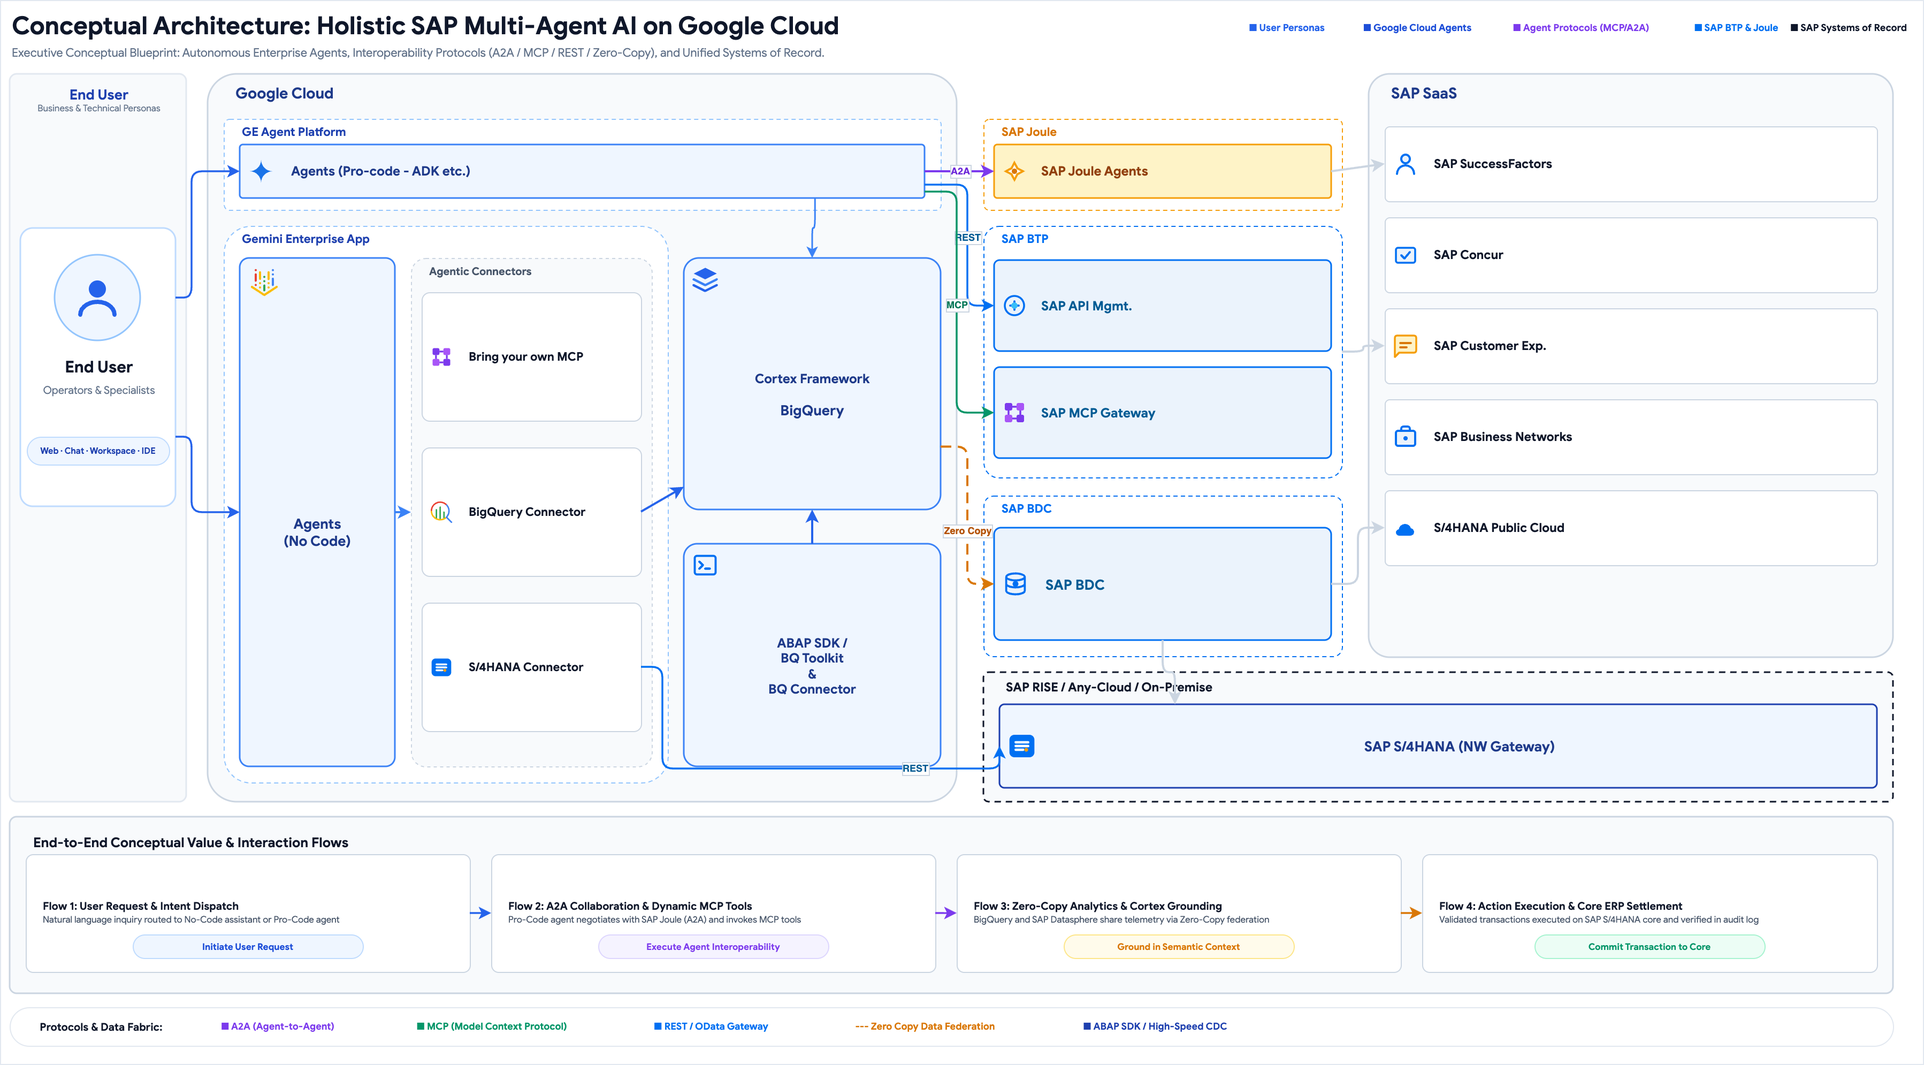
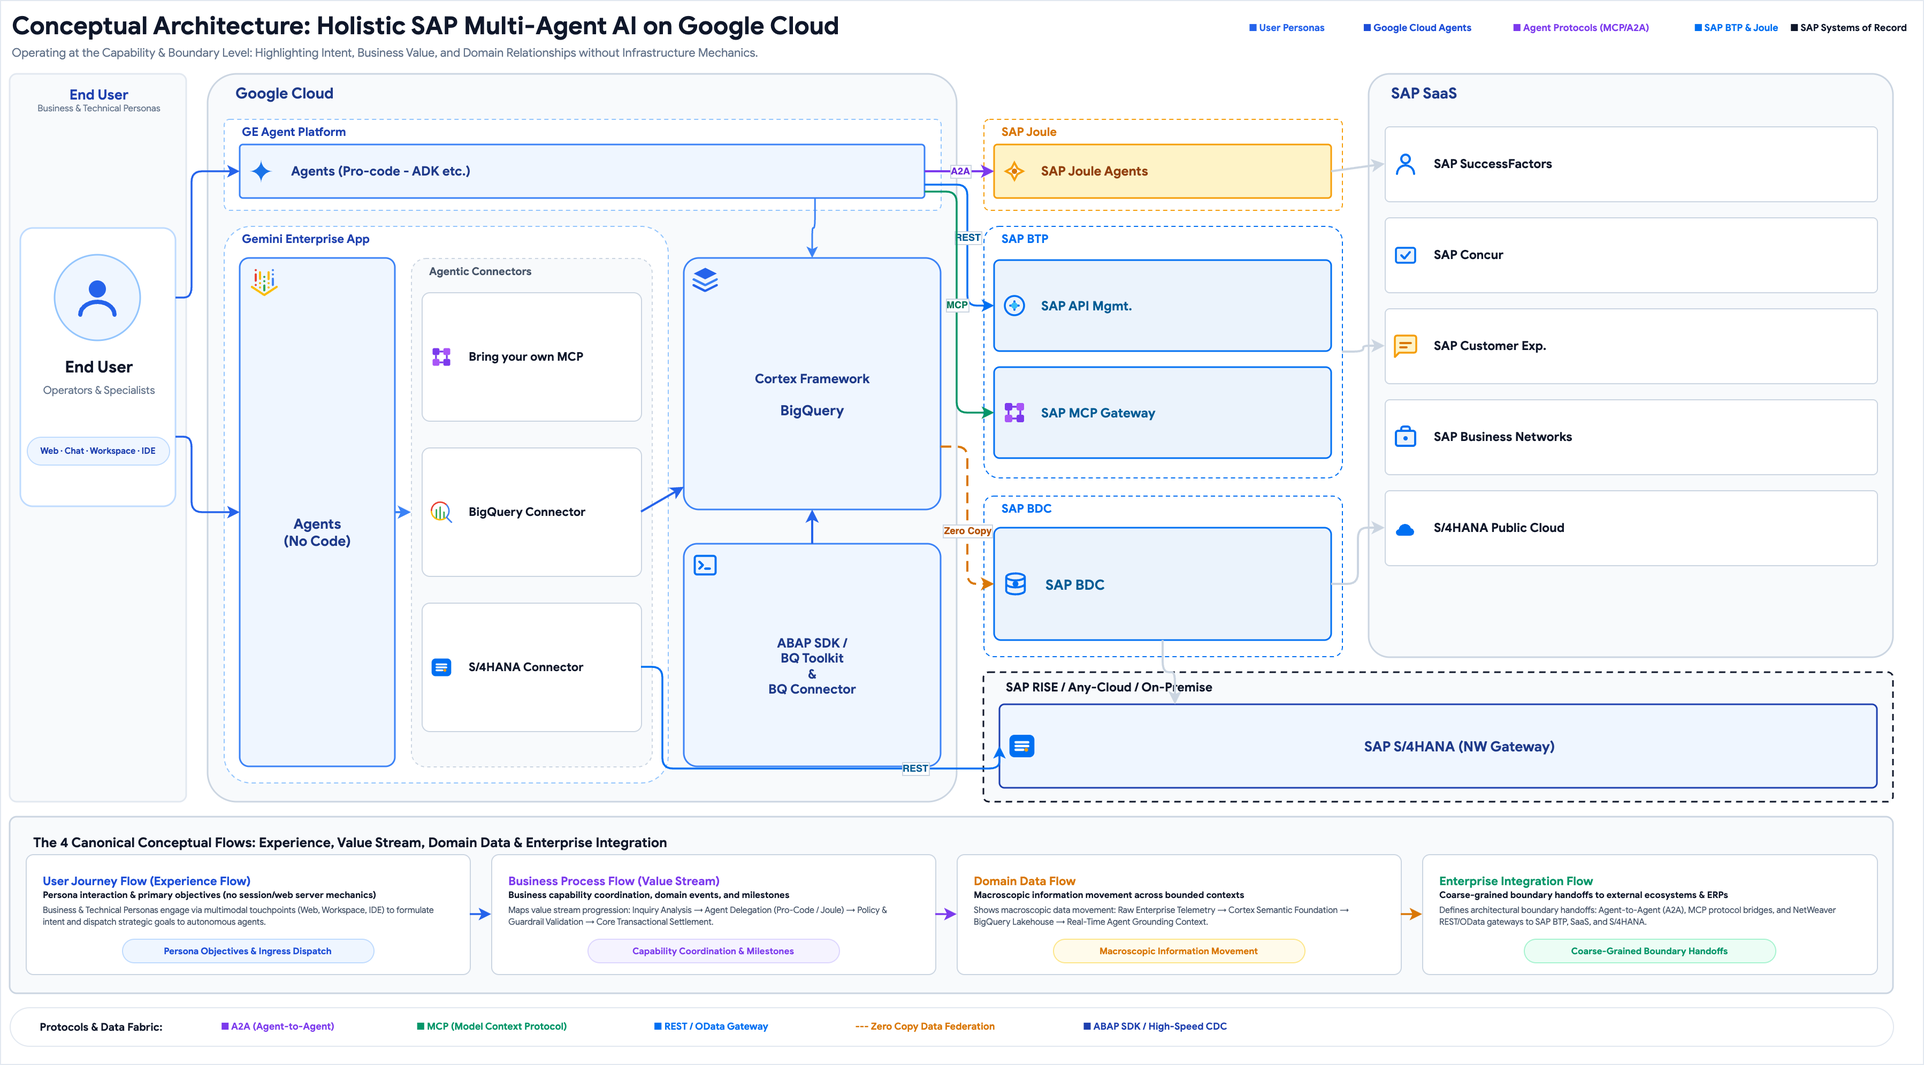
feat(conceptual): codify Rule 22 Conceptual Architecture Abstraction & The 4-Flow Taxonomy Law across diagrams and metadata

diff --git a/scripts/generate_pure_conceptual_sap_google_agents.ts b/scripts/generate_pure_conceptual_sap_google_agents.ts
@@ -37,7 +37,7 @@ const xml = `<?xml version="1.0" encoding="UTF-8"?>
         <mxCell id="hdr_title" value="Conceptual Architecture: Holistic SAP Multi-Agent AI on Google Cloud" style="text;html=1;strokeColor=none;fillColor=none;align=left;verticalAlign=middle;whiteSpace=wrap;rounded=0;fontFamily=Google Sans, -apple-system, BlinkMacSystemFont, Segoe UI, Roboto, sans-serif;fontSize=23;fontStyle=1;fontColor=#0F172A;" vertex="1" parent="1">
           <mxGeometry x="30" y="16" width="1200" height="30" as="geometry" />
         </mxCell>
-        <mxCell id="hdr_sub" value="Executive Conceptual Blueprint: Autonomous Enterprise Agents, Interoperability Protocols (A2A / MCP / REST / Zero-Copy), and Unified Systems of Record." style="text;html=1;strokeColor=none;fillColor=none;align=left;verticalAlign=middle;whiteSpace=wrap;rounded=0;fontFamily=Google Sans, -apple-system, BlinkMacSystemFont, Segoe UI, Roboto, sans-serif;fontSize=11;fontStyle=0;fontColor=#64748B;" vertex="1" parent="1">
+        <mxCell id="hdr_sub" value="Operating at the Capability &amp; Boundary Level: Highlighting Intent, Business Value, and Domain Relationships without Infrastructure Mechanics." style="text;html=1;strokeColor=none;fillColor=none;align=left;verticalAlign=middle;whiteSpace=wrap;rounded=0;fontFamily=Google Sans, -apple-system, BlinkMacSystemFont, Segoe UI, Roboto, sans-serif;fontSize=11;fontStyle=0;fontColor=#64748B;" vertex="1" parent="1">
           <mxGeometry x="30" y="46" width="1350" height="20" as="geometry" />
         </mxCell>
 
@@ -373,42 +373,42 @@ const xml = `<?xml version="1.0" encoding="UTF-8"?>
 
 
         <!-- ========================================================================= -->
-        <!-- DOMAIN 6: END-TO-END CONCEPTUAL SCENARIO FLOWS (y=770, h=165)             -->
+        <!-- DOMAIN 6: THE 4 CANONICAL CONCEPTUAL FLOWS (y=770, h=165)                 -->
         <!-- ========================================================================= -->
-        <mxCell id="domain_scenario" value="End-to-End Conceptual Value &amp; Interaction Flows" style="rounded=1;arcSize=4;fillColor=#F8FAFC;strokeColor=#CBD5E1;strokeWidth=1.5;align=left;verticalAlign=top;spacingLeft=20;spacingTop=10;fontFamily=Google Sans, sans-serif;fontSize=12.5;fontStyle=1;fontColor=#0F172A;" vertex="1" parent="1">
+        <mxCell id="domain_scenario" value="The 4 Canonical Conceptual Flows: Experience, Value Stream, Domain Data &amp; Enterprise Integration" style="rounded=1;arcSize=4;fillColor=#F8FAFC;strokeColor=#CBD5E1;strokeWidth=1.5;align=left;verticalAlign=top;spacingLeft=20;spacingTop=10;fontFamily=Google Sans, sans-serif;fontSize=12.5;fontStyle=1;fontColor=#0F172A;" vertex="1" parent="1">
           <mxGeometry x="30" y="770" width="1760" height="165" as="geometry" />
         </mxCell>
 
-        <!-- Step 1 Card -->
-        <mxCell id="sc_card_1" value="Flow 1: User Request &amp; Intent Dispatch&lt;br&gt;&lt;span style=&quot;font-size: 8.5px; font-weight: normal; color: #475569;&quot;&gt;Natural language inquiry routed to No-Code assistant or Pro-Code agent&lt;/span&gt;" style="rounded=1;arcSize=6;fillColor=#FFFFFF;strokeColor=#CBD5E1;strokeWidth=1;html=1;whiteSpace=wrap;fontFamily=Google Sans, sans-serif;fontSize=10;fontStyle=1;fontColor=#0F172A;align=left;verticalAlign=middle;spacingLeft=14;" vertex="1" parent="1">
-          <mxGeometry x="45" y="805" width="415" height="110" as="geometry" />
+        <!-- Step 1 Card: User Journey Flow (Experience Flow) -->
+        <mxCell id="sc_card_1" value="&lt;div style=&quot;font-size: 11px; font-weight: bold; color: #1D4ED8; margin-bottom: 2px;&quot;&gt;User Journey Flow (Experience Flow)&lt;/div&gt;&lt;div style=&quot;font-size: 8.5px; font-weight: 600; color: #0F172A; margin-bottom: 3px;&quot;&gt;Persona interaction &amp; primary objectives (no session/web server mechanics)&lt;/div&gt;&lt;div style=&quot;font-size: 8px; color: #475569; line-height: 1.3;&quot;&gt;Business &amp; Technical Personas engage via multimodal touchpoints (Web, Workspace, IDE) to formulate intent and dispatch strategic goals to autonomous agents.&lt;/div&gt;" style="rounded=1;arcSize=6;fillColor=#FFFFFF;strokeColor=#CBD5E1;strokeWidth=1;html=1;whiteSpace=wrap;fontFamily=Google Sans, sans-serif;align=left;verticalAlign=top;spacingLeft=14;spacingRight=14;spacingTop=12;" vertex="1" parent="1">
+          <mxGeometry x="45" y="805" width="415" height="112" as="geometry" />
         </mxCell>
-        <mxCell id="sc_btn_1" value="Initiate User Request" style="rounded=1;arcSize=50;fillColor=#EFF6FF;strokeColor=#BFDBFE;strokeWidth=1;fontFamily=Google Sans, sans-serif;fontSize=8.5;fontStyle=1;fontColor=#1D4ED8;align=center;verticalAlign=middle;" vertex="1" parent="1">
-          <mxGeometry x="145" y="880" width="215" height="22" as="geometry" />
-        </mxCell>
-
-        <!-- Step 2 Card -->
-        <mxCell id="sc_card_2" value="Flow 2: A2A Collaboration &amp; Dynamic MCP Tools&lt;br&gt;&lt;span style=&quot;font-size: 8.5px; font-weight: normal; color: #475569;&quot;&gt;Pro-Code agent negotiates with SAP Joule (A2A) and invokes MCP tools&lt;/span&gt;" style="rounded=1;arcSize=6;fillColor=#FFFFFF;strokeColor=#CBD5E1;strokeWidth=1;html=1;whiteSpace=wrap;fontFamily=Google Sans, sans-serif;fontSize=10;fontStyle=1;fontColor=#0F172A;align=left;verticalAlign=middle;spacingLeft=14;" vertex="1" parent="1">
-          <mxGeometry x="480" y="805" width="415" height="110" as="geometry" />
-        </mxCell>
-        <mxCell id="sc_btn_2" value="Execute Agent Interoperability" style="rounded=1;arcSize=50;fillColor=#F5F3FF;strokeColor=#DDD6FE;strokeWidth=1;fontFamily=Google Sans, sans-serif;fontSize=8.5;fontStyle=1;fontColor=#7C3AED;align=center;verticalAlign=middle;" vertex="1" parent="1">
-          <mxGeometry x="580" y="880" width="215" height="22" as="geometry" />
+        <mxCell id="sc_btn_1" value="Persona Objectives &amp; Ingress Dispatch" style="rounded=1;arcSize=50;fillColor=#EFF6FF;strokeColor=#BFDBFE;strokeWidth=1;fontFamily=Google Sans, sans-serif;fontSize=8.5;fontStyle=1;fontColor=#1D4ED8;align=center;verticalAlign=middle;" vertex="1" parent="1">
+          <mxGeometry x="135" y="884" width="235" height="22" as="geometry" />
         </mxCell>
 
-        <!-- Step 3 Card -->
-        <mxCell id="sc_card_3" value="Flow 3: Zero-Copy Analytics &amp; Cortex Grounding&lt;br&gt;&lt;span style=&quot;font-size: 8.5px; font-weight: normal; color: #475569;&quot;&gt;BigQuery and SAP Datasphere share telemetry via Zero-Copy federation&lt;/span&gt;" style="rounded=1;arcSize=6;fillColor=#FFFFFF;strokeColor=#CBD5E1;strokeWidth=1;html=1;whiteSpace=wrap;fontFamily=Google Sans, sans-serif;fontSize=10;fontStyle=1;fontColor=#0F172A;align=left;verticalAlign=middle;spacingLeft=14;" vertex="1" parent="1">
-          <mxGeometry x="915" y="805" width="415" height="110" as="geometry" />
+        <!-- Step 2 Card: Business Process Flow (Value Stream) -->
+        <mxCell id="sc_card_2" value="&lt;div style=&quot;font-size: 11px; font-weight: bold; color: #7C3AED; margin-bottom: 2px;&quot;&gt;Business Process Flow (Value Stream)&lt;/div&gt;&lt;div style=&quot;font-size: 8.5px; font-weight: 600; color: #0F172A; margin-bottom: 3px;&quot;&gt;Business capability coordination, domain events, and milestones&lt;/div&gt;&lt;div style=&quot;font-size: 8px; color: #475569; line-height: 1.3;&quot;&gt;Maps value stream progression: Inquiry Analysis → Agent Delegation (Pro-Code / Joule) → Policy &amp; Guardrail Validation → Core Transactional Settlement.&lt;/div&gt;" style="rounded=1;arcSize=6;fillColor=#FFFFFF;strokeColor=#CBD5E1;strokeWidth=1;html=1;whiteSpace=wrap;fontFamily=Google Sans, sans-serif;align=left;verticalAlign=top;spacingLeft=14;spacingRight=14;spacingTop=12;" vertex="1" parent="1">
+          <mxGeometry x="480" y="805" width="415" height="112" as="geometry" />
         </mxCell>
-        <mxCell id="sc_btn_3" value="Ground in Semantic Context" style="rounded=1;arcSize=50;fillColor=#FFFBEB;strokeColor=#FDE68A;strokeWidth=1;fontFamily=Google Sans, sans-serif;fontSize=8.5;fontStyle=1;fontColor=#D97706;align=center;verticalAlign=middle;" vertex="1" parent="1">
-          <mxGeometry x="1015" y="880" width="215" height="22" as="geometry" />
+        <mxCell id="sc_btn_2" value="Capability Coordination &amp; Milestones" style="rounded=1;arcSize=50;fillColor=#F5F3FF;strokeColor=#DDD6FE;strokeWidth=1;fontFamily=Google Sans, sans-serif;fontSize=8.5;fontStyle=1;fontColor=#7C3AED;align=center;verticalAlign=middle;" vertex="1" parent="1">
+          <mxGeometry x="570" y="884" width="235" height="22" as="geometry" />
         </mxCell>
 
-        <!-- Step 4 Card -->
-        <mxCell id="sc_card_4" value="Flow 4: Action Execution &amp; Core ERP Settlement&lt;br&gt;&lt;span style=&quot;font-size: 8.5px; font-weight: normal; color: #475569;&quot;&gt;Validated transactions executed on SAP S/4HANA core and verified in audit log&lt;/span&gt;" style="rounded=1;arcSize=6;fillColor=#FFFFFF;strokeColor=#CBD5E1;strokeWidth=1;html=1;whiteSpace=wrap;fontFamily=Google Sans, sans-serif;fontSize=10;fontStyle=1;fontColor=#0F172A;align=left;verticalAlign=middle;spacingLeft=14;" vertex="1" parent="1">
-          <mxGeometry x="1350" y="805" width="425" height="110" as="geometry" />
+        <!-- Step 3 Card: Domain Data Flow -->
+        <mxCell id="sc_card_3" value="&lt;div style=&quot;font-size: 11px; font-weight: bold; color: #D97706; margin-bottom: 2px;&quot;&gt;Domain Data Flow&lt;/div&gt;&lt;div style=&quot;font-size: 8.5px; font-weight: 600; color: #0F172A; margin-bottom: 3px;&quot;&gt;Macroscopic information movement across bounded contexts&lt;/div&gt;&lt;div style=&quot;font-size: 8px; color: #475569; line-height: 1.3;&quot;&gt;Shows macroscopic data movement: Raw Enterprise Telemetry → Cortex Semantic Foundation → BigQuery Lakehouse → Real-Time Agent Grounding Context.&lt;/div&gt;" style="rounded=1;arcSize=6;fillColor=#FFFFFF;strokeColor=#CBD5E1;strokeWidth=1;html=1;whiteSpace=wrap;fontFamily=Google Sans, sans-serif;align=left;verticalAlign=top;spacingLeft=14;spacingRight=14;spacingTop=12;" vertex="1" parent="1">
+          <mxGeometry x="915" y="805" width="415" height="112" as="geometry" />
         </mxCell>
-        <mxCell id="sc_btn_4" value="Commit Transaction to Core" style="rounded=1;arcSize=50;fillColor=#ECFDF5;strokeColor=#A7F3D0;strokeWidth=1;fontFamily=Google Sans, sans-serif;fontSize=8.5;fontStyle=1;fontColor=#059669;align=center;verticalAlign=middle;" vertex="1" parent="1">
-          <mxGeometry x="1455" y="880" width="215" height="22" as="geometry" />
+        <mxCell id="sc_btn_3" value="Macroscopic Information Movement" style="rounded=1;arcSize=50;fillColor=#FFFBEB;strokeColor=#FDE68A;strokeWidth=1;fontFamily=Google Sans, sans-serif;fontSize=8.5;fontStyle=1;fontColor=#D97706;align=center;verticalAlign=middle;" vertex="1" parent="1">
+          <mxGeometry x="1005" y="884" width="235" height="22" as="geometry" />
+        </mxCell>
+
+        <!-- Step 4 Card: Enterprise Integration Flow -->
+        <mxCell id="sc_card_4" value="&lt;div style=&quot;font-size: 11px; font-weight: bold; color: #059669; margin-bottom: 2px;&quot;&gt;Enterprise Integration Flow&lt;/div&gt;&lt;div style=&quot;font-size: 8.5px; font-weight: 600; color: #0F172A; margin-bottom: 3px;&quot;&gt;Coarse-grained boundary handoffs to external ecosystems &amp; ERPs&lt;/div&gt;&lt;div style=&quot;font-size: 8px; color: #475569; line-height: 1.3;&quot;&gt;Defines architectural boundary handoffs: Agent-to-Agent (A2A), MCP protocol bridges, and NetWeaver REST/OData gateways to SAP BTP, SaaS, and S/4HANA.&lt;/div&gt;" style="rounded=1;arcSize=6;fillColor=#FFFFFF;strokeColor=#CBD5E1;strokeWidth=1;html=1;whiteSpace=wrap;fontFamily=Google Sans, sans-serif;align=left;verticalAlign=top;spacingLeft=14;spacingRight=14;spacingTop=12;" vertex="1" parent="1">
+          <mxGeometry x="1350" y="805" width="425" height="112" as="geometry" />
+        </mxCell>
+        <mxCell id="sc_btn_4" value="Coarse-Grained Boundary Handoffs" style="rounded=1;arcSize=50;fillColor=#ECFDF5;strokeColor=#A7F3D0;strokeWidth=1;fontFamily=Google Sans, sans-serif;fontSize=8.5;fontStyle=1;fontColor=#059669;align=center;verticalAlign=middle;" vertex="1" parent="1">
+          <mxGeometry x="1445" y="884" width="235" height="22" as="geometry" />
         </mxCell>
 
         <!-- Flow Connectors -->

diff --git a/src/lib/architectureTypes.ts b/src/lib/architectureTypes.ts
@@ -95,8 +95,8 @@ export const BUSINESS_ARCHITECTURE_TYPES: ArchitectureTypeOption[] = [
     id: "conceptual_diagram",
     name: "Conceptual Diagram",
     category: "Executive & Business Strategy",
-    whenToUse: "High-level 3-stage business architecture showing ingestion, processing hub, and strategic outcomes",
-    prompt: "Enterprise Conceptual Platform:\n- Ingestion: Multi-channel data ingestion across core operational silos.\n- Processing Engine: Core Enterprise Synthesis Engine (Powered by Gemini Enterprise) executing data synthesis, document analysis, and strategic AI workflows.\n- Strategic Outcomes: System Efficiency, Fast Time-to-Value, Strategic Planning & Analysis.\n- Priority Alert: Real-Time Operational Strategy Monitoring."
+    whenToUse: "Capability- and boundary-level architecture highlighting intent, business value, and domain relationships across 4 canonical flows (User Journey, Value Stream, Domain Data, and Enterprise Integration)",
+    prompt: "Act as a Principal Enterprise Architect. Design an Executive Conceptual Architecture Diagram. Conceptual diagrams operate strictly at the capability and boundary level, stripping away infrastructure mechanics to highlight intent, business value, and domain relationships.\nStructure the architecture around the 4 Canonical Flows:\n1. User Journey Flow (Experience Flow): High-level persona interaction, primary objectives, and ingress entry points.\n2. Business Process Flow (Value Stream): Business capability coordination, domain events, and milestones (e.g. Order Submission -> Payment Authorization -> Inventory Allocation).\n3. Domain Data Flow: Macroscopic information movement across bounded contexts (e.g. Raw Data -> Feature Store -> Analytical Model -> Reporting Dashboard).\n4. Enterprise Integration Flow: Coarse-grained boundary handoffs to external third parties, legacy ERPs, or partner ecosystems."
   },
   {
     id: "unified_system_view",

diff --git a/src/lib/architectureMetadata.ts b/src/lib/architectureMetadata.ts
@@ -73,11 +73,11 @@ export const ARCHITECTURE_METADATA_MAP: Record<string, ArchitectureMeta> = {
     id: "conceptual_diagram",
     title: "Conceptual Diagram",
     category: "Executive & Business Strategy",
-    useCase: "ENTERPRISE PLATFORM",
-    businessUseCase: "Automate cross-silo data synthesis, document analysis, and strategic AI workflows to accelerate operational decision-making.",
-    primaryActors: "Executive Leadership, Chief Architects, Strategic Analysts",
-    targetOutcomes: "Accelerated Time-to-Value, 80% Reduction in Manual Research, Real-Time Strategic Insights",
-    desc: "High-level 3-stage business architecture showing ingestion, processing hub, and strategic outcomes."
+    useCase: "ENTERPRISE PLATFORM & VALUE STREAM",
+    businessUseCase: "Operate at the capability and boundary level to highlight intent, business value, and domain relationships across 4 canonical flows: User Journey, Business Process Value Stream, Domain Data Flow, and Enterprise Integration.",
+    primaryActors: "Executive Leadership, Chief Enterprise Architects, Business Strategists",
+    targetOutcomes: "Capability Alignment, Macroscopic Information Visibility, Strategic Ecosystem Integration",
+    desc: "Capability- and boundary-level architecture highlighting intent, business value, and domain relationships across the 4 canonical flows (User Journey, Value Stream, Domain Data, and Enterprise Integration)."
   },
   unified_system_view: {
     id: "unified_system_view",

diff --git a/AGENTS.md b/AGENTS.md
@@ -301,3 +301,12 @@ This version has breaking changes — APIs, conventions, and file structure may 
 21. **Geometric Waypoint Highway Planning & Zero Text Intersection**:
     - Cross-tier connector lines spanning across columns MUST route through designated open inter-row channels (e.g. gaps between cards) with explicit intermediate waypoints (`<mxPoint x="..." y="...">`).
     - Line paths must maintain a minimum **$12\text{px}$ safety margin** from all card boundaries, container headers, subheaders, and character descenders. Never route lines through the text bounding box of a card or container title.
+
+22. **Conceptual Architecture Abstraction & The 4-Flow Taxonomy Law**:
+    - **Capability & Boundary Level Abstraction**: Conceptual diagrams MUST operate strictly at the capability and boundary level. They strip away infrastructure mechanics (no VPCs, CIDRs, session cookies, web servers, low-level SDK package paths, or code blocks) to highlight intent, business value, and domain relationships.
+    - **Four Canonical Conceptual Flows**: Conceptual value streams and interaction models MUST be structured around the four canonical flows:
+      1. **User Journey Flow (Experience Flow)**: Focuses on high-level persona interaction, primary objectives, and ingress entry points without detailing session cookies or web servers.
+      2. **Business Process Flow (Value Stream)**: Maps business capability coordination, domain events, and milestones (e.g., Order Submission → Payment Authorization → Inventory Allocation).
+      3. **Domain Data Flow**: Shows macroscopic information movement across bounded contexts (e.g., Raw Research Data → Feature Store → Analytical Model → Reporting Dashboard).
+      4. **Enterprise Integration Flow**: Defines coarse-grained boundary handoffs to external third parties, legacy ERPs, or partner ecosystems.
+    - **Strict Abstraction Guardrail**: Technical details (CIDRs, TLS handshakes, SDK method calls) must be strictly reserved for Technical / Infrastructure diagrams and must NEVER pollute Conceptual diagrams.

diff --git a/.agents/AGENTS.md b/.agents/AGENTS.md
@@ -248,3 +248,12 @@
 21. **Geometric Waypoint Highway Planning & Zero Text Intersection**:
     - Cross-tier connector lines spanning across columns MUST route through designated open inter-row channels (e.g. gaps between cards) with explicit intermediate waypoints (`<mxPoint x="..." y="...">`).
     - Line paths must maintain a minimum **$12\text{px}$ safety margin** from all card boundaries, container headers, subheaders, and character descenders. Never route lines through the text bounding box of a card or container title.
+
+22. **Conceptual Architecture Abstraction & The 4-Flow Taxonomy Law**:
+    - **Capability & Boundary Level Abstraction**: Conceptual diagrams MUST operate strictly at the capability and boundary level. They strip away infrastructure mechanics (no VPCs, CIDRs, session cookies, web servers, low-level SDK package paths, or code blocks) to highlight intent, business value, and domain relationships.
+    - **Four Canonical Conceptual Flows**: Conceptual value streams and interaction models MUST be structured around the four canonical flows:
+      1. **User Journey Flow (Experience Flow)**: Focuses on high-level persona interaction, primary objectives, and ingress entry points without detailing session cookies or web servers.
+      2. **Business Process Flow (Value Stream)**: Maps business capability coordination, domain events, and milestones (e.g., Order Submission → Payment Authorization → Inventory Allocation).
+      3. **Domain Data Flow**: Shows macroscopic information movement across bounded contexts (e.g., Raw Research Data → Feature Store → Analytical Model → Reporting Dashboard).
+      4. **Enterprise Integration Flow**: Defines coarse-grained boundary handoffs to external third parties, legacy ERPs, or partner ecosystems.
+    - **Strict Abstraction Guardrail**: Technical details (CIDRs, TLS handshakes, SDK method calls) must be strictly reserved for Technical / Infrastructure diagrams and must NEVER pollute Conceptual diagrams.

diff --git a/diagrams/sap_multi_agent_ecosystem/README.md b/diagrams/sap_multi_agent_ecosystem/README.md
@@ -17,7 +17,12 @@ This directory contains the production-grade Draw.io XML blueprints for the SAP 
   - **Column 3: SAP Joule & SAP BTP Platform**: SAP Joule Agents (top), SAP API Mgmt. & SAP MCP Gateway (middle), SAP BDC Datasphere (bottom).
   - **Column 4: SAP SaaS Suite**: SuccessFactors, Concur, Customer Exp. (CX), Business Networks (Ariba), S/4HANA Public Cloud.
   - **Column 5: SAP RISE / Any-Cloud / On-Premise**: SAP S/4HANA (NetWeaver Gateway, OData v2/v4, RFC, BAPI).
-  - **End-to-End Conceptual Value & Interaction Flows**: 4-stage business flow with high-contrast protocol pill badges (`A2A`, `MCP`, `REST`, `Zero Copy`).
+  - **Operating Paradigm**: Operates strictly at the capability and boundary level, stripping away infrastructure mechanics to highlight intent, business value, and domain relationships.
+  - **The 4 Canonical Conceptual Flows**:
+    1. *User Journey Flow (Experience Flow)*: Persona interaction & primary objectives without session cookies or web servers.
+    2. *Business Process Flow (Value Stream)*: Business capability coordination, domain events, and milestones.
+    3. *Domain Data Flow*: Macroscopic information movement across bounded contexts.
+    4. *Enterprise Integration Flow*: Coarse-grained boundary handoffs to external third parties, legacy ERPs, or partner ecosystems.
 
 ---
 
